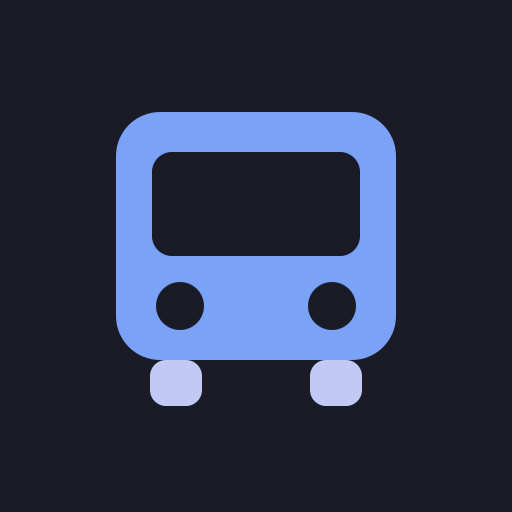
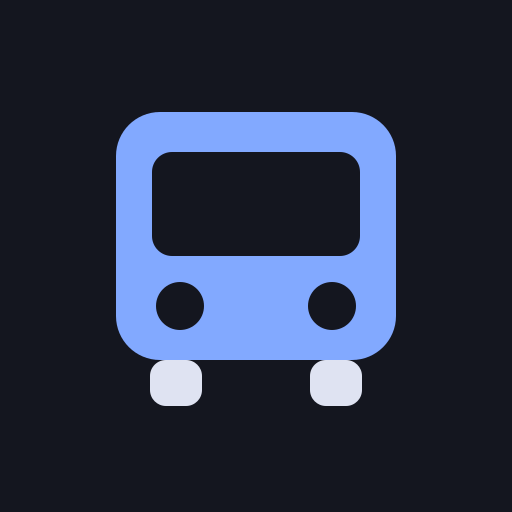
Partage social, téléchargement du PDF et champs d'heure sur iPhone
Trois corrections signalées à l'usage.

Le téléchargement du plan officiel rendait une page HTML. Un clic sur un lien
`download` émet une requête de NAVIGATION, que la `NavigationRoute` de Workbox
interceptait pour renvoyer `index.html` : le parent récupérait donc l'application
enregistrée sous un nom en `.pdf`, illisible par tout lecteur. Une
`navigateFallbackDenylist` écarte désormais les PDF, les JSON et les icônes. Vérifié
avec le service worker actif, et contrôlé en sens inverse — une route inconnue reçoit
toujours `index.html`.

Les champs d'heure du périscolaire débordaient de leur carte sur iPhone et faisaient
le double de la hauteur voulue. Safari leur donne une largeur intrinsèque large que
`min-inline-size: 0` autorise enfin à rétrécir, et un remplissage interne que
`appearance: none` retire.

Métadonnées Open Graph et Twitter Card, engendrées à la construction : `og:image` et
`og:url` exigent des URL absolues, or l'origine n'est connue qu'au build. La vignette
1200 × 630 porte la mention d'indépendance — un lien partagé dans un groupe de parents
s'affiche avec elle et rien d'autre, et laisser croire à une communication officielle
contredirait le premier principe du projet avant même l'ouverture du site.

Au passage, le script d'icônes était resté sur l'ancienne palette : la refonte
visuelle du lot 2 avait modifié `favicon.svg` à la main sans toucher au générateur,
qui l'aurait donc réverti au prochain lancement.

248 tests.
[…]

Changed region(s): [[0.5938, 0.6875, 0.7188, 0.8125], [0.2812, 0.6875, 0.4062, 0.8125]]

diff --git a/vite.config.ts b/vite.config.ts
@@ -53,7 +53,51 @@ function politiqueSecurite(urlWorker: string): string {
 }
 
 /**
- * Insère la politique dans `index.html`, au plus près de l'ouverture du `<head>`.
+ * Métadonnées de partage (Open Graph et Twitter Card).
+ *
+ * Engendrées ici plutôt qu'écrites dans `index.html` : `og:image` et `og:url` exigent
+ * des URL ABSOLUES — les crawlers ne résolvent pas les chemins relatifs —, or l'origine
+ * n'est connue qu'à la construction.
+ *
+ * La description répète l'indépendance du site. Un lien partagé dans un groupe de
+ * parents s'affiche avec ce texte et rien d'autre : laisser croire à une communication
+ * officielle contredirait le premier principe du projet avant même l'ouverture du site.
+ *
+ * `robots: noindex` reste par ailleurs en place ; il vise les moteurs de recherche, pas
+ * les aperçus de lien, et les deux ne se contredisent pas.
+ */
+function metasPartage(urlPublique: string): string {
+  const url = urlPublique.replace(/\/$/, '')
+  const titre = 'Bus scolaire Beckerich'
+  const description =
+    "Les horaires du bus scolaire de la commune de Beckerich, personnalisés pour chaque enfant. " +
+    "Site indépendant, sans lien avec la commune ni avec l'école."
+
+  return [
+    `<meta property="og:type" content="website" />`,
+    `<meta property="og:site_name" content="${titre}" />`,
+    `<meta property="og:title" content="${titre}" />`,
+    `<meta property="og:description" content="${description}" />`,
+    `<meta property="og:url" content="${url}/" />`,
+    `<meta property="og:image" content="${url}/icones/partage.png" />`,
+    `<meta property="og:image:width" content="1200" />`,
+    `<meta property="og:image:height" content="630" />`,
+    `<meta property="og:image:alt" content="${titre} — site indépendant" />`,
+    `<meta property="og:locale" content="fr_LU" />`,
+    // `summary_large_image` : la vignette occupe toute la largeur de la carte, ce qui
+    // rend la mention d'indépendance lisible au lieu d'une miniature carrée.
+    `<meta name="twitter:card" content="summary_large_image" />`,
+    `<meta name="twitter:title" content="${titre}" />`,
+    `<meta name="twitter:description" content="${description}" />`,
+    `<meta name="twitter:image" content="${url}/icones/partage.png" />`,
+  ]
+    .map((m) => `    ${m}`)
+    .join('\n')
+}
+
+/**
+ * Insère la politique et les métadonnées dans `index.html`, au plus près de l'ouverture
+ * du `<head>`.
  *
  * **Construction uniquement.** En développement, `@vitejs/plugin-react` injecte un
  * préambule inline pour le rechargement à chaud ; `script-src 'self'` le bloque, et
@@ -68,9 +112,14 @@ function pluginCsp() {
     apply: 'build' as const,
     transformIndexHtml(html: string) {
       const csp = politiqueSecurite(process.env.VITE_URL_WORKER ?? '')
+      // Origine publique du site. Le défaut couvre GitHub Pages ; une commune qui
+      // hébergerait le site ailleurs pose la variable, comme pour `BASE_PATH`.
+      const urlPublique =
+        process.env.URL_PUBLIQUE ?? `https://sashimee.github.io${base.replace(/\/$/, '')}`
       return html.replace(
         '<head>',
-        `<head>\n    <meta http-equiv="Content-Security-Policy" content="${csp}" />`,
+        `<head>\n    <meta http-equiv="Content-Security-Policy" content="${csp}" />\n` +
+          `${metasPartage(urlPublique)}`,
       )
     },
   }
@@ -112,6 +161,21 @@ export default defineConfig({
         // à l'installation coûterait cher en données mobiles pour un fichier que
         // beaucoup de parents n'ouvriront jamais.
         globIgnores: ['**/version.json', '**/plan-bus-*.pdf', '**/urgences.json'],
+        /*
+         * Ce qui ne doit JAMAIS être remplacé par `index.html`.
+         *
+         * Un clic sur un lien `download` est une requête de navigation : sans cette
+         * liste, la `NavigationRoute` de Workbox l'interceptait et renvoyait la page
+         * de l'application. Le parent qui cliquait « Télécharger le plan officiel »
+         * récupérait donc un fichier HTML nommé `.pdf`, illisible par tout lecteur.
+         */
+        navigateFallbackDenylist: [
+          /\.pdf$/,
+          /\.json$/,
+          /^\/[^/]*\/icones\//,
+          // Le point d'entrée du Worker n'est pas une page de l'application.
+          /\/sw\.js$/,
+        ],
         // Ajoute les écouteurs push au service worker généré par Workbox.
         importScripts: ['push-handler.js'],
         runtimeCaching: [

diff --git a/src/index.css b/src/index.css
@@ -577,6 +577,28 @@
     border-color: var(--accent);
   }
 
+  /*
+   * Champs d'heure et de date.
+   *
+   * Safari sur iOS leur donne une largeur intrinsèque large et une hauteur gonflée par
+   * un remplissage interne : deux champs côte à côte débordaient de leur carte, et
+   * chaque ligne faisait le double de la hauteur voulue. `appearance: none` retire ce
+   * remplissage, `min-inline-size: 0` autorise enfin le champ à rétrécir — sans lui,
+   * une colonne de grille ne descend jamais sous la largeur intrinsèque de son contenu.
+   */
+  input[type='time'],
+  input[type='date'] {
+    appearance: none;
+    -webkit-appearance: none;
+    min-inline-size: 0;
+    block-size: var(--cible);
+    padding-block: 0;
+    padding-inline: var(--espace-2);
+    /* Le champ se centre sur son texte plutôt que de s'aligner à gauche d'une boîte
+       plus large que lui, ce qui rend deux champs voisins visuellement égaux. */
+    text-align: center;
+  }
+
   textarea {
     font-family: ui-monospace, SFMono-Regular, Menlo, monospace;
     font-size: var(--texte-s);
@@ -690,6 +712,12 @@
     grid-template-columns: 5.5rem minmax(0, 1fr) minmax(0, 1fr);
   }
 
+  /* Sans cela, une colonne ne descend jamais sous la largeur intrinsèque de son
+     contenu — c'est ce qui faisait déborder les champs d'heure sur iPhone. */
+  .grille-semaine__jour > * {
+    min-inline-size: 0;
+  }
+
   @media (max-width: 34rem) {
     .grille-semaine__jour--simple,
     .grille-semaine__jour--horaires {
@@ -698,7 +726,13 @@
     /* Les deux horaires tiennent côte à côte même sur un téléphone : les séparer
        ferait une colonne de dix champs pour une seule semaine. */
     .grille-semaine__jour--horaires {
-      grid-template-columns: 1fr 1fr;
+      grid-template-columns: minmax(0, 1fr) minmax(0, 1fr);
+    }
+
+    /* Libellés resserrés : « Arrive à partir de » sur deux lignes vaut mieux qu'un
+       champ poussé hors de la carte. */
+    .grille-semaine__jour--horaires .champ label {
+      font-size: var(--texte-s);
     }
     .grille-semaine__jour--horaires > .grille-semaine__nom {
       grid-column: 1 / -1;

diff --git a/docs/plan.md b/docs/plan.md
@@ -50,6 +50,8 @@ perdue. Elle se raye quand la vérification a été faite, pas avant.
 | R11 | 13 | **L'intégration Google n'a jamais tourné.** Le prérequis — projet Google Cloud, API Calendar, ID client OAuth, écran de consentement — n'est pas fait. Ni le flux PKCE, ni la création d'agenda, ni l'écriture d'un événement n'ont été exercés. | Créer l'ID client, poser `VITE_ID_CLIENT_GOOGLE` en variable de dépôt, puis connecter un compte de test. |
 | R12 | 11 | **La CSP avait cassé `npm run dev`** en bloquant le préambule inline de React Refresh — page blanche, découvert seulement au lot 13. Corrigé : la politique ne s'applique qu'au build. Rappel de méthode : vérifier le build **et** le serveur de développement après toute modification de `vite.config.ts`. | Corrigé. Ligne gardée comme trace. |
 | R13 | 6 | **Trois vérifications successives n'avaient pas montré que la boîte d'installation ne s'ouvrait jamais**, parce qu'elles simulaient `beforeinstallprompt` APRÈS le montage de React — exactement le cas qui fonctionnait. Rappel de méthode : un événement simulé ne prouve rien sur le moment où le vrai arrive. | Corrigé. Ligne gardée comme trace. |
+| R14 | — | **Les champs d'heure débordaient sur iPhone**, signalé en usage réel : Safari leur donne une largeur intrinsèque large et une hauteur gonflée. Corrigé (`appearance: none`, `min-inline-size: 0`, hauteur fixe) et mesuré à 390 px sous Chrome — **mais pas sur un iPhone réel**, que je n'ai pas. | Rouvrir `/configurer` sur l'iPhone, déplier un enfant inscrit au périscolaire, vérifier que les deux champs tiennent dans la carte. |
+| R15 | — | **La vignette de partage n'a pas été soumise aux validateurs.** Les métadonnées Open Graph sont posées et l'image existe, mais aucun aperçu réel n'a été obtenu depuis WhatsApp, Facebook ou LinkedIn. | Coller le lien dans une conversation WhatsApp, ou passer par le débogueur de partage de chaque plateforme. |
 | R6 | 3 | **Une arrivée après la sonnerie est affichée sans être signalée.** Pour un C2 déposé au Dillendapp le matin, aucune course n'arrive avant 07:55 : l'application montre 08:00, l'heure publiée, et la page « Limites » énonce le fait — mais la fiche de l'enfant ne le dit pas au moment où le parent la lit. | À trancher : soit c'est acceptable et la page « Limites » suffit, soit il faut une mention sur le trajet lui-même. Décision de conception, pas défaut. |
 
 ### Mise en service, non faite
